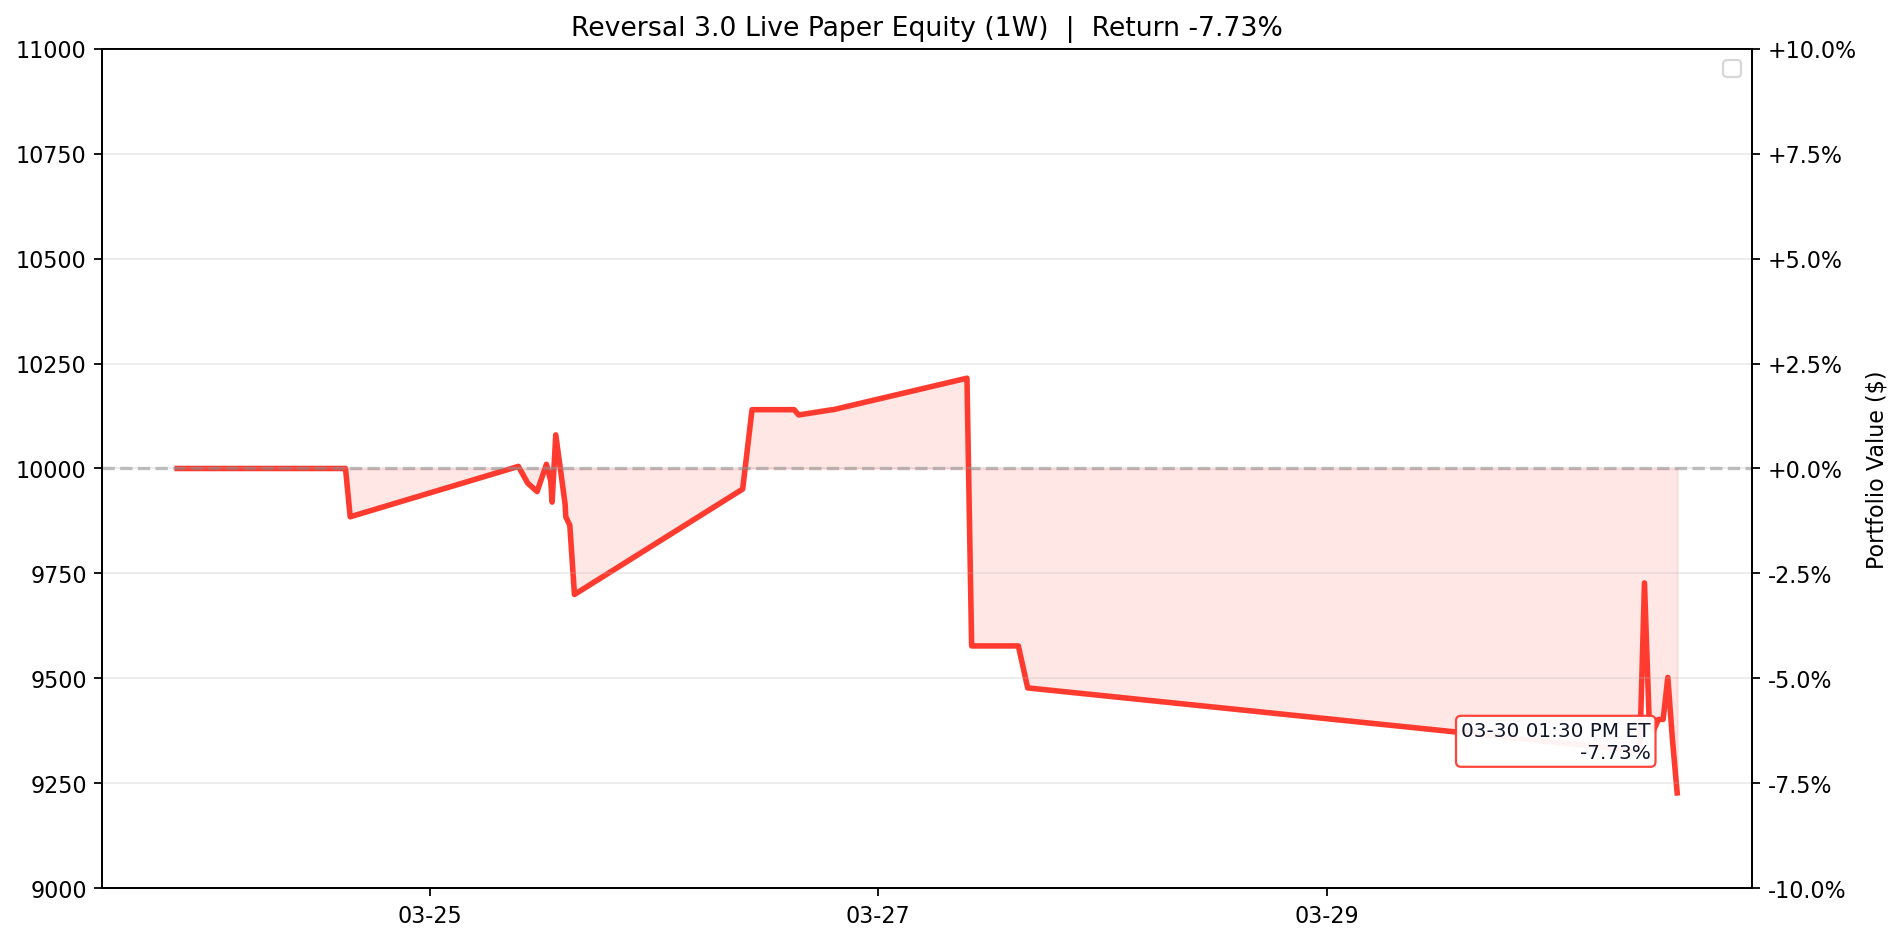
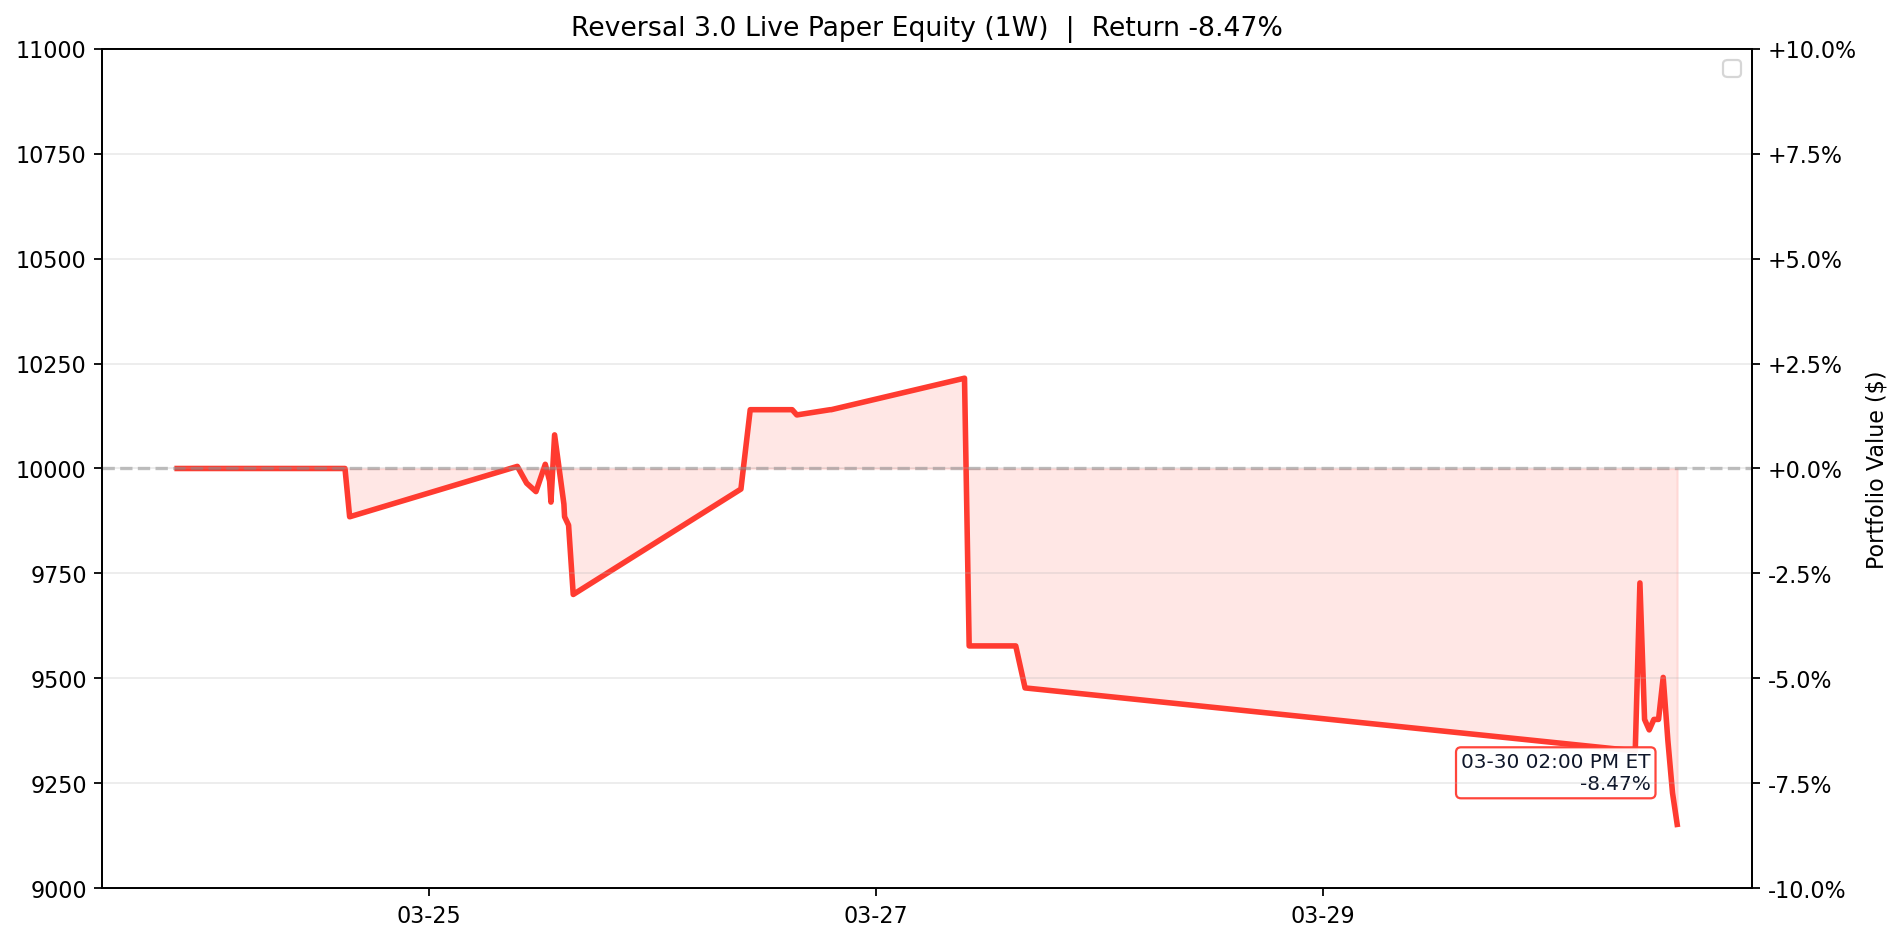
Update Reversal 3.0 live paper test 2026-03-30 14:00 ET

diff --git a/results/reversal_3_0_live/README.md b/results/reversal_3_0_live/README.md
@@ -1,7 +1,7 @@
 # Reversal 3.0 Live Paper Test
 
-Last updated (ET): `2026-03-30 13:30:05 EDT`
-Last processed slot: `manage_1330`
+Last updated (ET): `2026-03-30 14:00:05 EDT`
+Last processed slot: `manage_1400`
 
 ## Active Configuration
 
@@ -20,16 +20,16 @@ Last processed slot: `manage_1330`
 ## Portfolio Snapshot
 
 - Cash: `$4,977.50`
-- Equity: `$9,227.50`
+- Equity: `$9,152.50`
 - Realized PnL: `$-422.50`
-- Unrealized PnL: `$-350.00`
+- Unrealized PnL: `$-425.00`
 - Open positions: `1`
 
 ## Open Positions
 
 ```text
 ticker    contract_symbol entry_trade_date  business_days_held  entry_option_price  current_option_price  entry_spot  current_spot  unrealized_pnl  unrealized_return_pct  success_rate  matched_signals  current_drop_pct  entry_iv_pct  current_iv_pct  rolling_sigma_20d_pct
-   HON HON260501C00225000       2026-03-27                   1                 9.2                   8.5      223.64        223.64          -350.0                  -7.61         100.0               20              0.68         39.47           35.93                  24.88
+   HON HON260501C00225000       2026-03-27                   1                 9.2                  8.35      223.64        223.79          -425.0                  -9.24         100.0               20              0.68         39.47           35.28                  24.88
 ```
 
 ## Today's Closed Trades (2026-03-30)
@@ -40,18 +40,18 @@ _None_
 
 ```text
 ticker  success_rate_%  matched_signals  current_drop_%  target_rebound_$  target_price  rolling_sigma_20d_%  call_candidate
-  FANG          100.00               20            1.38              1.95        201.00                24.78            True
-  NVDA           93.10               29            0.98              1.15        167.03                32.71            True
-  DXCM           93.02               43            0.62              0.27         62.14                32.07            True
-  INTC           90.00               10            4.83              1.46         42.50                64.48            True
-  PLTR           87.50               24            2.62              2.63        141.93                49.53            True
-  AVGO           87.50               16            2.57              5.40        298.36                39.28            True
-  TSLA           82.86               35            1.10              2.78        360.64                35.33            True
-   AMD           81.82               22            2.90              4.10        200.23                56.13            True
-   APP           80.56               36            1.86              4.96        379.08                72.26            True
-   TXN           80.00               15            2.02              2.69        189.18                29.79            True
-  KLAC           80.00               10            3.83             38.72       1426.61                53.64            True
-   WDC          100.00                6            8.60             16.58        268.24                77.70           False
+  FANG          100.00               15            1.58              2.23        200.88                24.78            True
+  SBUX           97.30               37            0.51              0.31         86.68                34.04            True
+  NVDA           93.10               29            0.90              1.06        167.07                32.71            True
+  DXCM           93.02               43            0.69              0.30         62.12                32.07            True
+  INTC           92.31               13            4.30              1.30         42.57                64.48            True
+  AVGO           87.50               16            2.76              5.80        298.19                39.28            True
+  TSLA           86.21               29            1.34              3.40        360.37                35.33            True
+  PLTR           85.00               20            2.94              2.94        141.80                49.53            True
+   AMD           83.33               24            2.66              3.77        200.38                56.13            True
+   STX           83.33               12            5.17             13.75        374.18                75.41            True
+  KLAC           83.33               12            3.31             33.44       1428.88                53.64            True
+   CEG           81.40               43            0.83              1.74        300.74                55.21            True
 ```
 
 ## Recent Events

diff --git a/README.md b/README.md
@@ -3,15 +3,15 @@
 <!-- reversal-3.0-live:start -->
 ## Reversal 3.0 Live Paper Test
 
-- Last updated (ET): `2026-03-30 13:30:05 EDT`
-- Equity: `$9,227.50` | Realized: `$-422.50` | Unrealized: `$-350.00` | Open positions: `1`
+- Last updated (ET): `2026-03-30 14:00:05 EDT`
+- Equity: `$9,152.50` | Realized: `$-422.50` | Unrealized: `$-425.00` | Open positions: `1`
 - Today closed trades: `0`
-- Current slot: `manage_1330`
+- Current slot: `manage_1400`
 - Chart: trailing `1W` with ET timestamps
 
 ```text
 ticker    contract_symbol  current_option_price  unrealized_pnl  unrealized_return_pct  business_days_held
-   HON HON260501C00225000                   8.5          -350.0                  -7.61                   1
+   HON HON260501C00225000                  8.35          -425.0                  -9.24                   1
 ```
 
 ![Reversal 3.0 Live Equity 1W](assets/reversal_3_0_live_equity.png)
